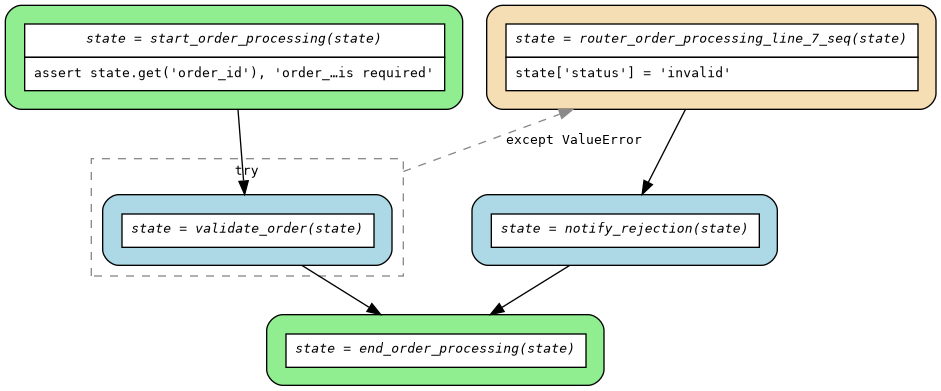
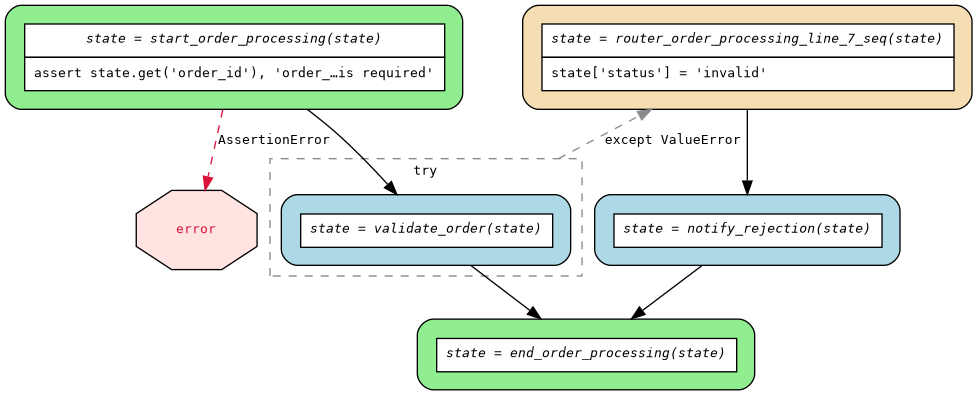
feat(flow): add AssertionError edge from assert boxes to error state in DOT
Routers containing assert mutations now render a dashed crimson edge
labeled "AssertionError" pointing to a shared octagon "error" node,
making the runtime failure path visible in flow diagrams.

Changed region(s): [[0.0, 0.0, 1.0, 0.7366], [0.2774, 0.7366, 0.8013, 1.0]]

diff --git a/src/asya-cli/tests/flow/test_codegen.py b/src/asya-cli/tests/flow/test_codegen.py
@@ -880,3 +880,84 @@ def flow(p: dict) -> dict:
             ast.parse(code)
         except SyntaxError as e:
             pytest.fail(f"Generated code for while-inside-if is not valid Python: {e}")
+
+
+class TestDotGeneratorAssertErrorEdge:
+    """Test that DotGenerator adds AssertionError edges for routers with assert mutations."""
+
+    def test_assert_mutation_creates_error_node(self):
+        from asya_cli.flow.dotgen import DotGenerator
+
+        routers = [
+            Router(
+                name="start_flow",
+                lineno=0,
+                mutations=[Mutation(lineno=1, code="assert p['x'], 'x required'")],
+                true_branch_actors=["handler_a", "end_flow"],
+            ),
+            Router(name="end_flow", lineno=999),
+        ]
+        dot = DotGenerator("flow", routers).generate()
+
+        assert "assert_error" in dot
+        assert 'label="error"' in dot
+        assert "shape=octagon" in dot
+
+    def test_assert_mutation_creates_assertion_error_edge(self):
+        from asya_cli.flow.dotgen import DotGenerator
+
+        routers = [
+            Router(
+                name="start_flow",
+                lineno=0,
+                mutations=[Mutation(lineno=1, code="assert p['x'], 'x required'")],
+                true_branch_actors=["handler_a", "end_flow"],
+            ),
+            Router(name="end_flow", lineno=999),
+        ]
+        dot = DotGenerator("flow", routers).generate()
+
+        assert "start_flow -> assert_error" in dot
+        assert "AssertionError" in dot
+        assert "dashed" in dot
+
+    def test_no_assert_mutation_no_error_node(self):
+        from asya_cli.flow.dotgen import DotGenerator
+
+        routers = [
+            Router(
+                name="start_flow",
+                lineno=0,
+                mutations=[Mutation(lineno=1, code="p['status'] = 'ok'")],
+                true_branch_actors=["end_flow"],
+            ),
+            Router(name="end_flow", lineno=999),
+        ]
+        dot = DotGenerator("flow", routers).generate()
+
+        assert "assert_error" not in dot
+        assert "AssertionError" not in dot
+
+    def test_multiple_routers_with_assert_share_error_node(self):
+        from asya_cli.flow.dotgen import DotGenerator
+
+        routers = [
+            Router(
+                name="start_flow",
+                lineno=0,
+                mutations=[Mutation(lineno=1, code="assert p['a']")],
+                true_branch_actors=["router_flow_line_3_seq", "end_flow"],
+            ),
+            Router(
+                name="router_flow_line_3_seq",
+                lineno=3,
+                mutations=[Mutation(lineno=3, code="assert p['b']")],
+                true_branch_actors=["end_flow"],
+            ),
+            Router(name="end_flow", lineno=999),
+        ]
+        dot = DotGenerator("flow", routers).generate()
+
+        assert dot.count('label="error"') == 1
+        assert "start_flow -> assert_error" in dot
+        assert "router_flow_line_3_seq -> assert_error" in dot

diff --git a/src/asya-cli/asya_cli/flow/dotgen.py b/src/asya-cli/asya_cli/flow/dotgen.py
@@ -44,6 +44,7 @@ class DotGenerator:
         self._try_clusters: list[_TryCluster] = []
         self._cluster_membership: dict[str, str] = {}
         self._raise_exit_nodes: dict[str, str] = {}  # cluster_name → raise_exit node name
+        self._routers_with_assert: set[str] = set()  # routers that contain assert mutations
         self._color_error_control_flow = "snow4"
         self._color_true_branch = "darkseagreen4"
         self._color_false_branch = "indianred4"
@@ -92,9 +93,18 @@ class DotGenerator:
             return f"{prefix}{display_name[:max_len]}{cut}({pn})"
         return full_text
 
+    def _build_assert_info(self) -> None:
+        """Detect routers containing assert mutations for error-edge visualization."""
+        for router in self.routers:
+            if router.name in self._hidden_routers:
+                continue
+            if any(m.code.startswith("assert ") for m in router.mutations):
+                self._routers_with_assert.add(router.name)
+
     def generate(self) -> str:
         self._collect_actors()
         self._build_try_info()
+        self._build_assert_info()
 
         parts = []
         parts.append("digraph flow {")
@@ -131,6 +141,14 @@ class DotGenerator:
                 f' label="raise"];'
             )
 
+        # Assert error pseudo-node (shared terminal for assertion failures → x-sump)
+        if self._routers_with_assert:
+            parts.append(
+                '  assert_error [shape=octagon, fillcolor="mistyrose",'
+                ' fontcolor="crimson", style=filled,'
+                ' label="error"];'
+            )
+
         # Try clusters (subgraph blocks with contained node definitions)
         for cluster in self._try_clusters:
             parts.extend(self._generate_try_cluster(cluster))
@@ -145,6 +163,14 @@ class DotGenerator:
                     all_edges.update(self._generate_try_block_edges(router))
                 continue
             all_edges.update(self._generate_edges(router))
+
+        # Assert error edges (dashed edges from assert-bearing routers to error node)
+        for router_name in self._routers_with_assert:
+            all_edges.add(
+                f"  {self._node_id(router_name)} -> assert_error"
+                f" [color={self._color_raise}, style=dashed,"
+                f' label="AssertionError"];'
+            )
 
         if all_edges:
             for edge in sorted(all_edges):
